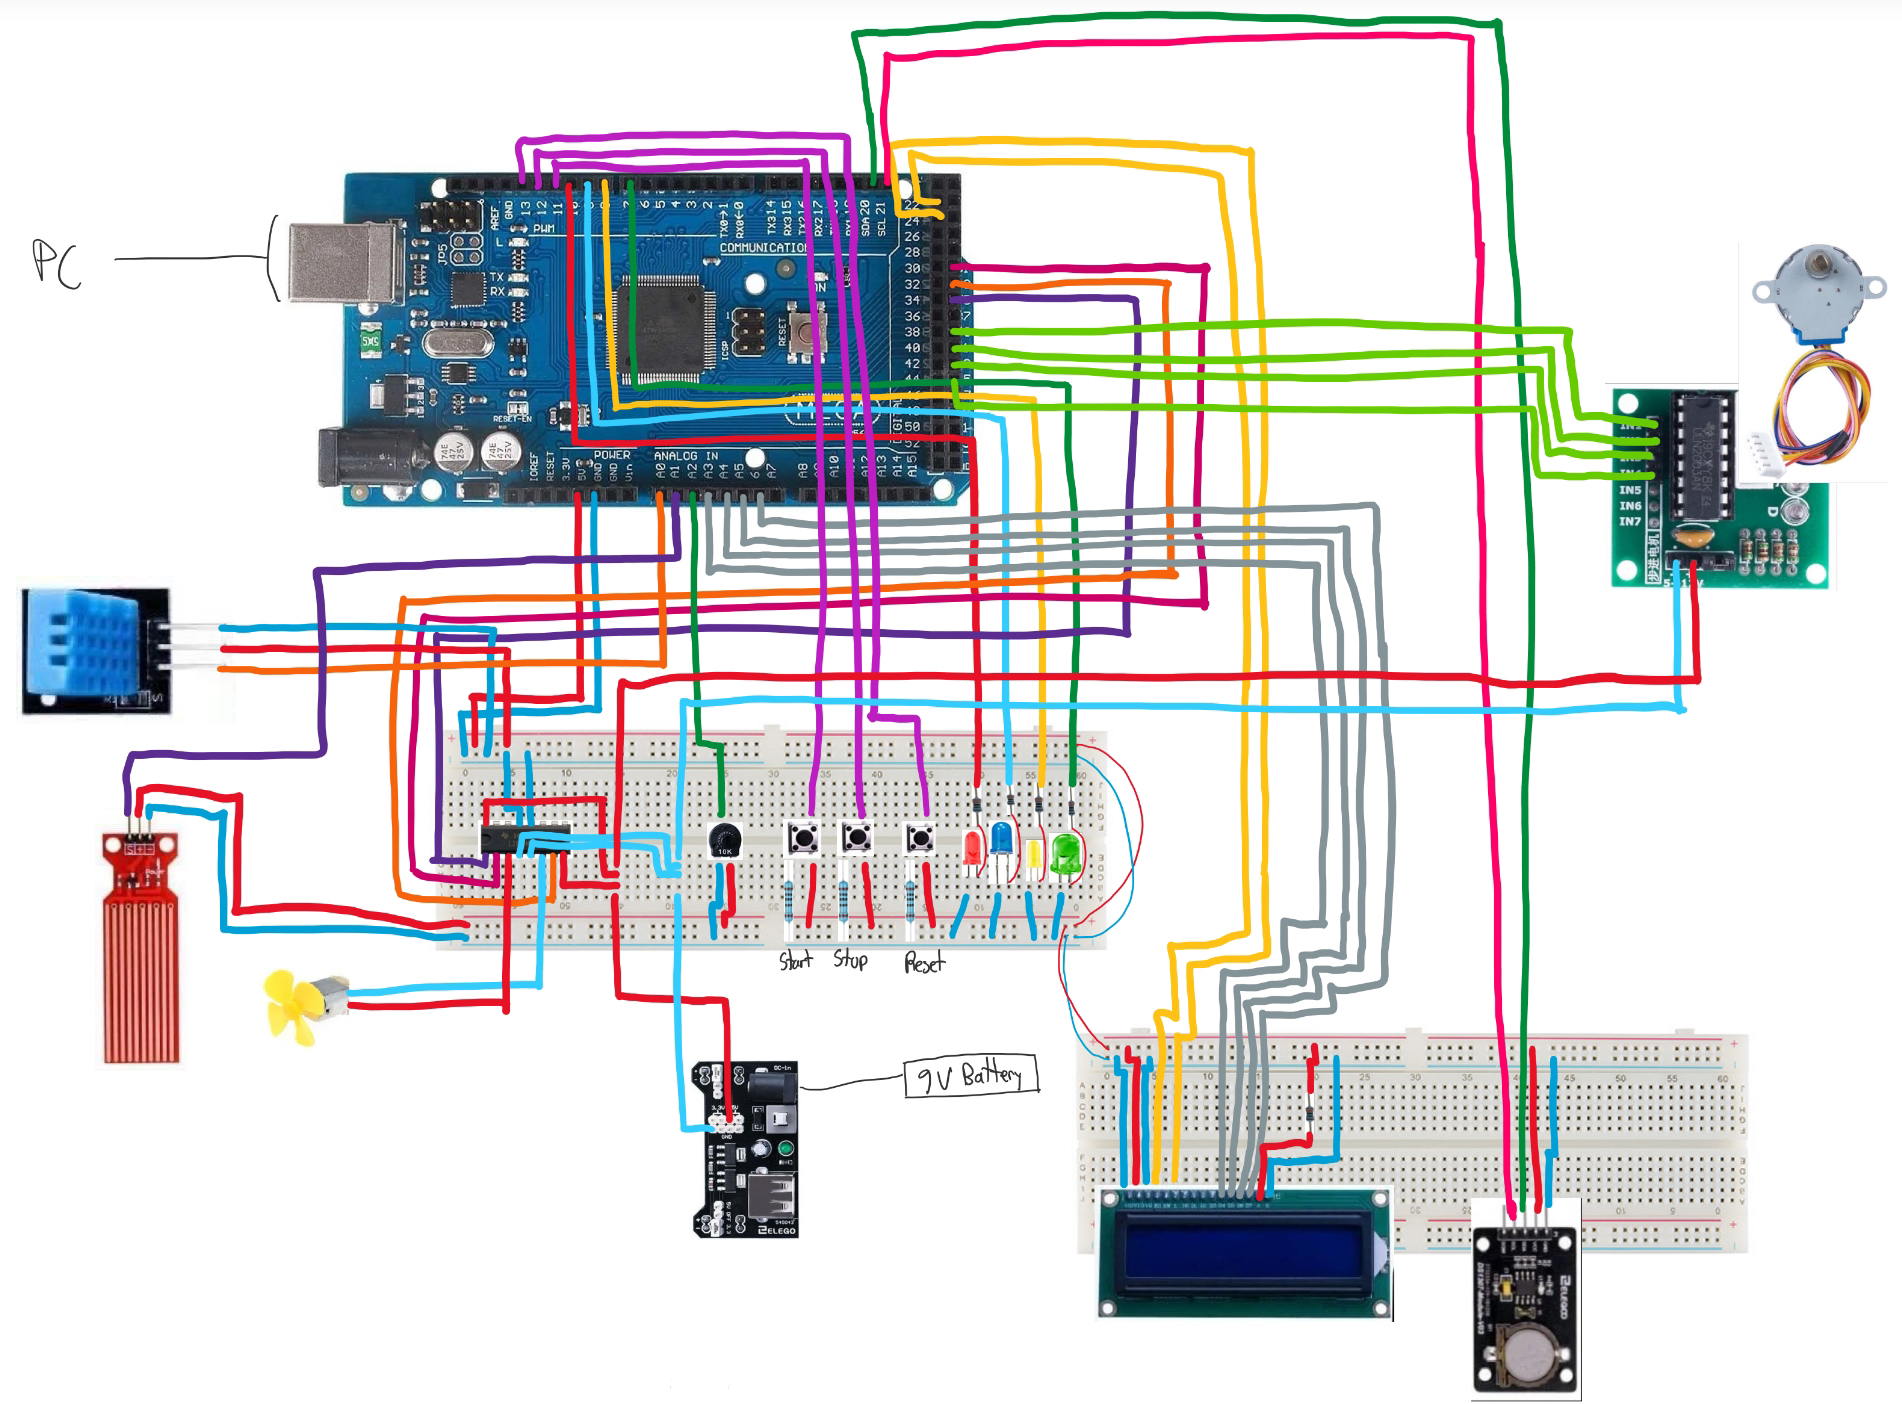
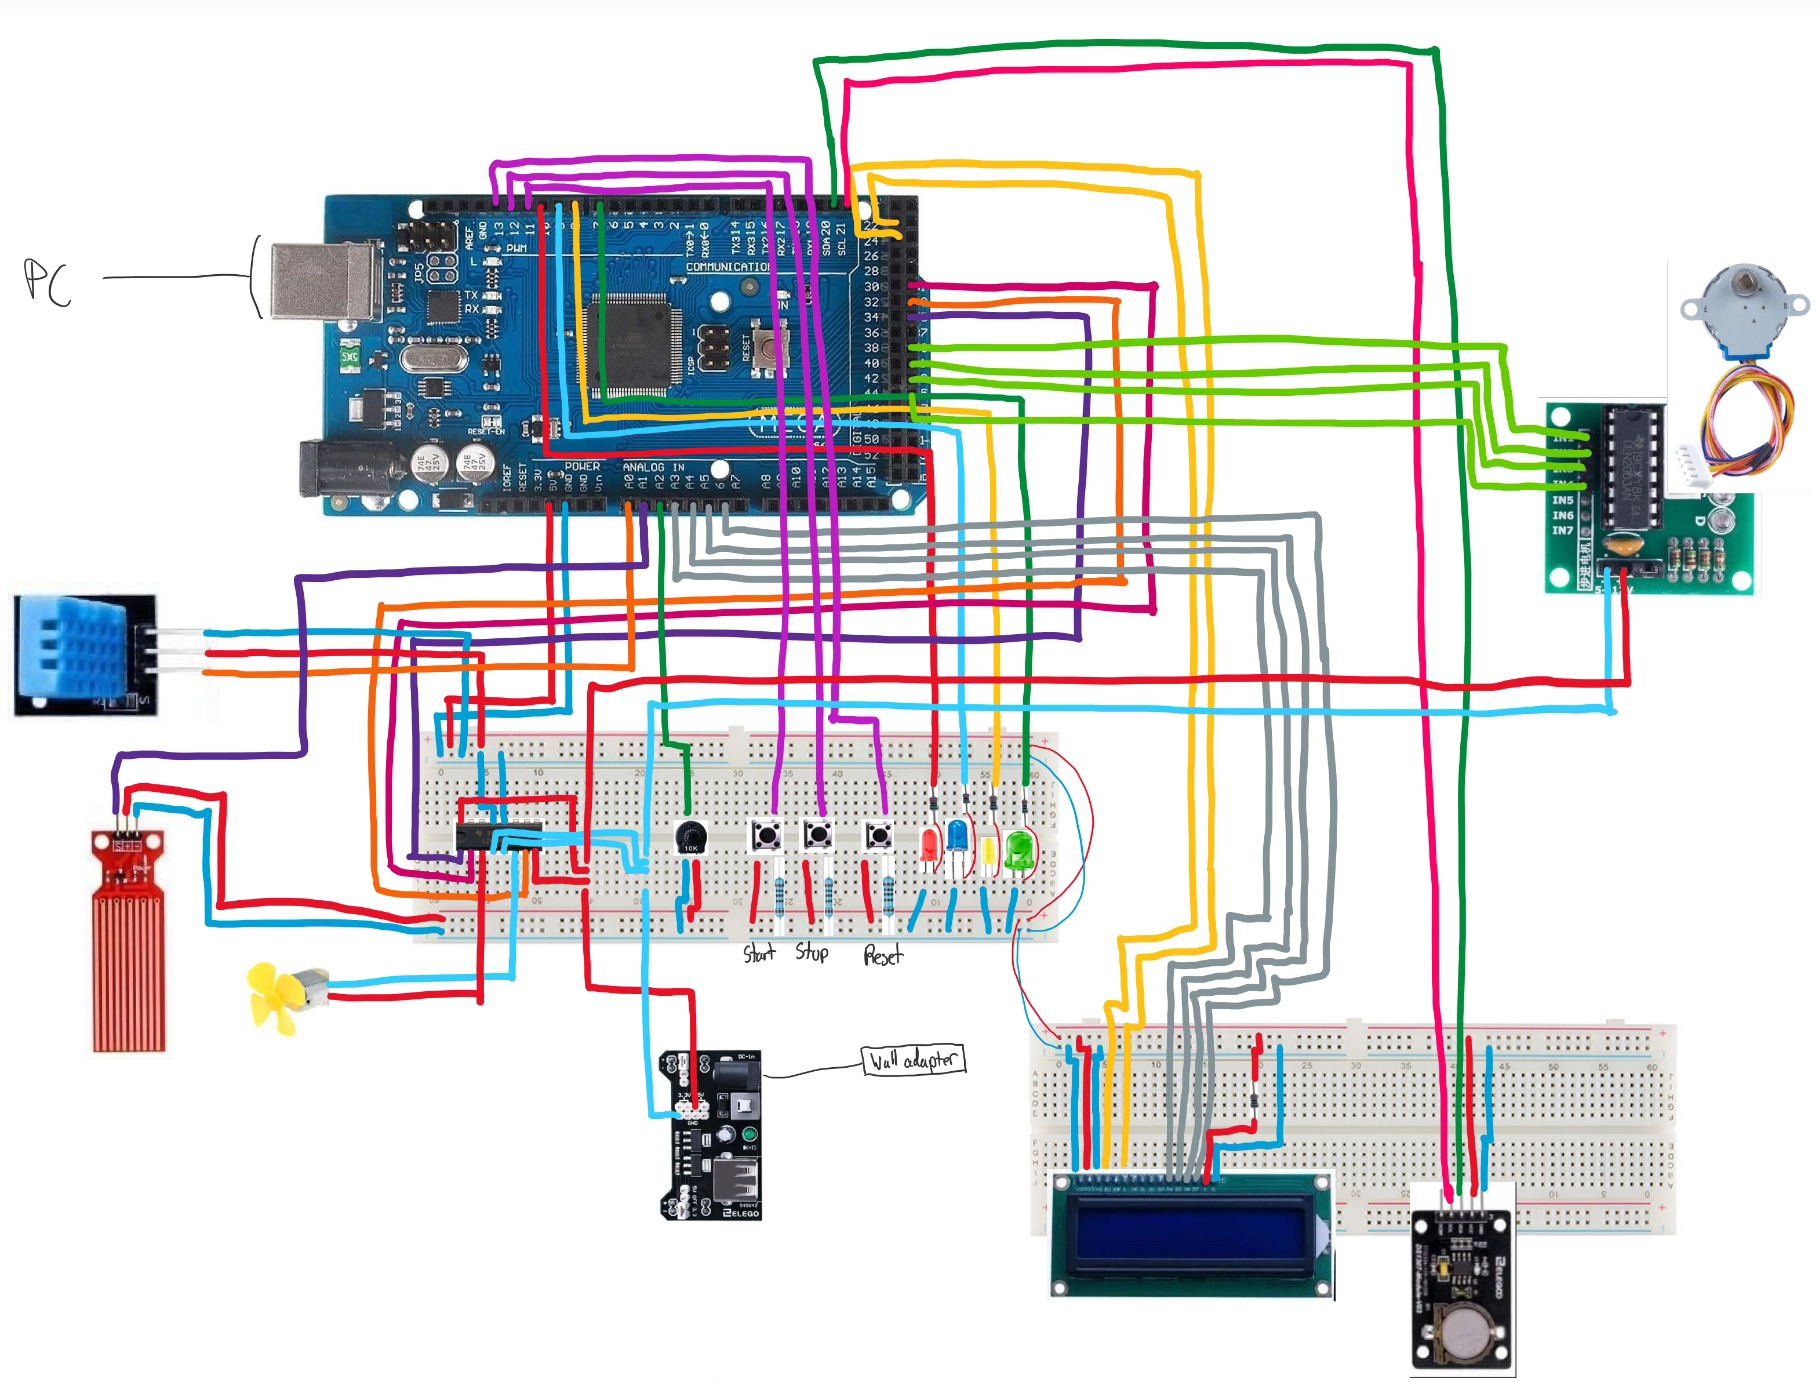
Final version of files uploaded

Changed region(s): [[0.0, 0.0, 1.0, 1.0], [0.0, 0.1556, 0.0308, 0.2178]]

diff --git a/README.md b/README.md
@@ -21,7 +21,7 @@ The following list of components can be found in the starter kit
 -L293D chip (https://components101.com/ics/l293d-pinout-features-datasheet)
 -Potentiometer 10k
 -Fan blade and 3-6V motor (https://thecustomizewindows.com/2015/08/arduino-3v-dc-motor-control-transistor-ic-more/)
--9V battery
+-Power adapter for the power supply module
 -Jumper wires
 -Female to male wires
 -USB cable (Connects the Arduino board to a PC)
@@ -41,9 +41,55 @@ Buttons
 Three buttons are used to Start, Stop, and Reset the system, and all three are wired up in a pull resistor configuration. Each button uses a 100 ohm resistor.
 
 Stepper Motor and fan
+The Arduino board itself cannot safely supply power to the stepper motor and the fan, so instead of being directly connected to the board or to power and ground rails drawing from the board, an external power supply is used. Using female-to-male cables, a small section of the breadboard is reserved to output 5V and GND from the external power supply, and from that, the fan motor, the stepper motor, and the fan motor's driver chip draws power from it.
 
 LCD
+I personally was running out of female-to-male cables, so I directly plugged my LCD into a spare breadboard I had, which draws power from the original breadboard's power rails. I then connected jumper cables accordingly. Rather than connecting VSS to a potentiometer, I simply connected it to ground. If you have problems reading the LCD display, then I recommend using a potentiometer.
 
 RTC
+This module was plugged into my spare breadboard, and I used jumper cables to connect the module to its respective pins on the Arduino board. It is directly connected to power and ground, using no resistor
 
 ### System constraints
+Water Threshold: 700
+
+A damp rag is placed on top of my water level sensor to simulate a water reservoir. The aforementioned threshold is about above the average reading I got during testing. When the rag is removed, the sensor levels drop below 700, and they rise when the damp rag is placed back onto it.
+
+Temp/Humidity Threshold: 650
+
+This threshold is also about above average of the readings I got in my room. In testing, it appears that the module's readings were inversely proportional to the temperature of the room, so when the reading went above the threshold, the system would enter an IDLE state. Conversely, when the reading went at or below the threshold, the system would enter the RUNNING state.
+
+Power Constraints
+
+As previously mentioned, the Arduino board itself is not capable of safely providing the power required by the motors in order to be operational. An external power source is required to supply power to the motors and I initially used the 9V battery included in the kit, however the battery drained very quickly, so it is advised to use the wall adapter to supply the power source module.
+
+States
+The following subsections describe how the state machine is used to dictate the actions of the swamp cooler, and determine how a user can and cannot interact with the system.
+
+ALL STATES
+1.) The real time clock (RTC) must be used to report the transitioning of one state to another. Additionally, a report must be generated and outputted to the serial monitor. This report includes the date and time of the state change, and from what state to the next state the system had transitioned to.
+
+IDLE
+1.) Green LED ON, the rest are OFF
+2.) Allow potentiometer to change the position of the stepper motor.
+3.) Monitor the temp/humidity and the water level, and display that information to the LCD. If the water is too low, transition to the ERROR state. 
+4.) Fan is OFF
+RUNNING
+1.) Blue LED ON, the rest are OFF
+2.) Allow potentiometer to change the position of the stepper motor
+3.) Fan is ON
+4.) Monitor the temp/humidity and the water level, and display those readings to the LCD. If the temp/humidity reading goes above the threshold, the system should transition to IDLE. If the water level goes below the threshold, the system should transition to the ERROR state
+5.) If the stop button is pressed, the system should transition to the DISABLED state
+DISABLED
+1.) Yellow LED ON, the rest are OFF
+2.) Do NOT monitor temp/humidity and water levels. LCD should be cleared
+3.) Start button monitored by ISR. If pressed, enter the RUNNING state
+4.) Do NOT allow the vent/stepper motor to change position
+5.) Fan is OFF
+ERROR
+1.) Red LED ON, the rest are OFF
+2.) Do NOT display the temp/humidity or the water level. Instead, display a Water Level LOW message.
+3.) Pressing the reset button should cause the system to transition to the IDLE state. If the water level is not sufficient, the IDLE state will return to ERROR
+4.) Fan is OFF
+
+### Video demonstration
+https://drive.google.com/file/d/18-a7dweWBv35Zxsdg4fr2F8MQ52iMcrx/view?usp=drive_link
